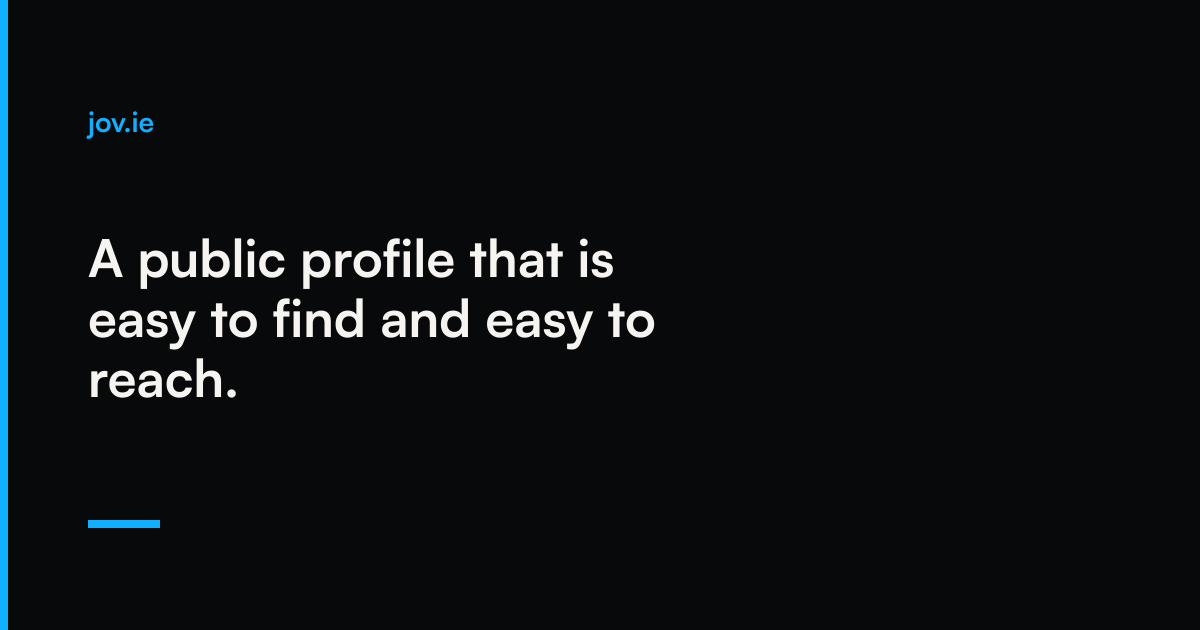
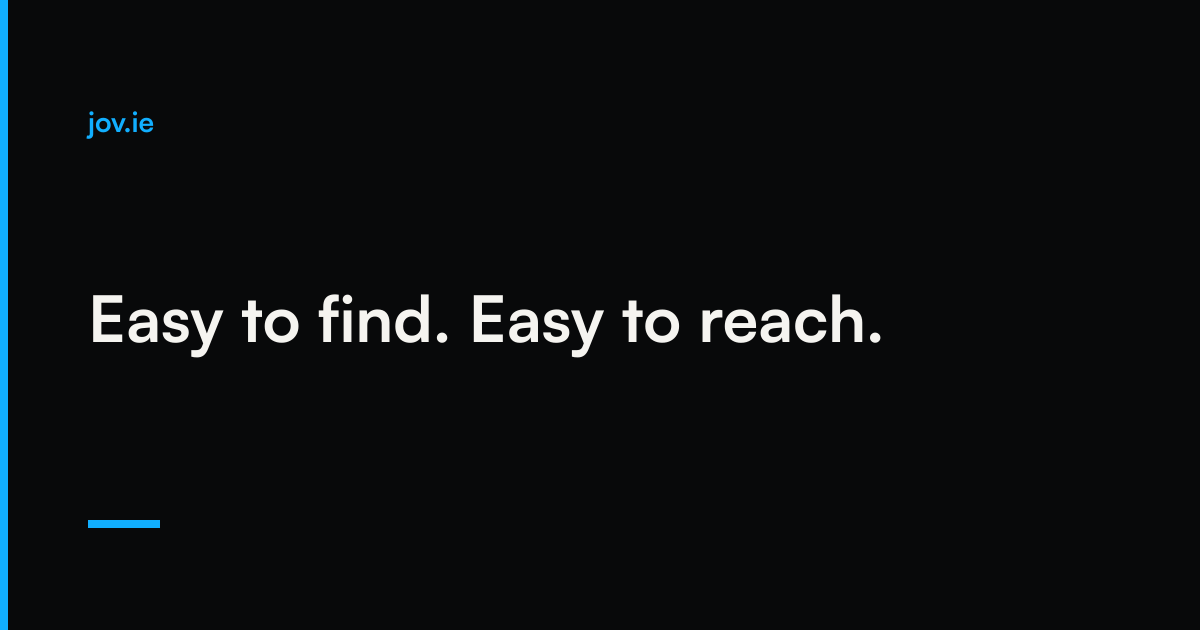
fix(marketing): keep the About H1 inside the two-line mobile cap
Route DOM certification clipped the longer H1 at 390px (clipped-heading). The H1 is now
"Easy to find. Easy to reach."; the one-sentence definition stays in the first row.
Updates the lint-ui-feel baseline (headingNeedsBalance 264 to 259) and the OG card.

Changed region(s): [[0.0617, 0.3619, 0.74, 0.6333]]

diff --git a/apps/web/data/aboutCopy.ts b/apps/web/data/aboutCopy.ts
@@ -31,7 +31,7 @@ export const ABOUT_DEFINITION =
 
 export const ABOUT_COPY = {
   eyebrow: 'About',
-  headline: 'A public profile that is easy to find and easy to reach.',
+  headline: 'Easy to find. Easy to reach.',
   metadataTitle: 'About Jovie',
   metadataDescription: `Jovie is a public profile that makes any creator easy to find and easy to reach, for people and for agents. Founded by ${ABOUT_FACTS.founder}. Based in Los Angeles.`,
   openGraphDescription: `Jovie is a public profile that makes any creator easy to find and easy to reach. Founded by ${ABOUT_FACTS.founder}.`,
